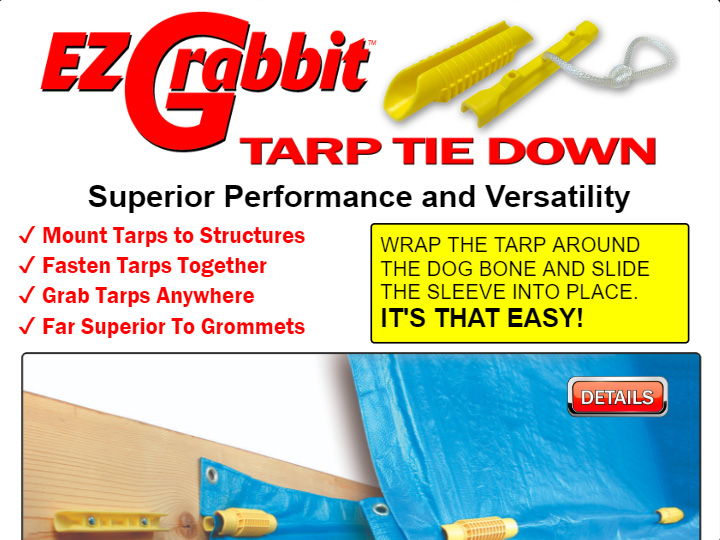
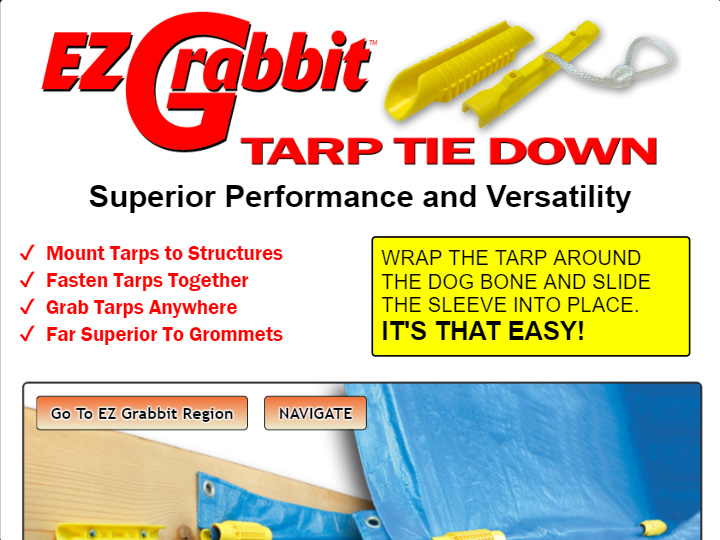
user content add/edit. Also a link to the new page 'components/components00_03/tmpl_01/ttd-vn-lg-not-complete-msg.html' to let users noew the LG page is not done yet. Need to do this for the other 'not done' pages as well.

diff --git a/components/components00_03/tmpl_01/viewTmpl_01.html b/components/components00_03/tmpl_01/viewTmpl_01.html
@@ -1,21 +1,4 @@
-<style>
-.textStyle1
-{
-font-family: 'Franklin Gothic Medium', 'Franklin Gothic', 'ITC Franklin Gothic', Arial, sans-serif;   
-color:red;
-text-align:center; 
-}
-
-.imageStyle1:hover
-{
-background-color:black; 
-border-radius:10px;
-box-shadow: 1px 1px 15px #CCEDF2, 1px -1px 15px #CCEDF2, -1px 1px 15px #CCEDF2, -1px -1px 15px #CCEDF2,
-            1px 1px 25px #EAE2BB, 1px -1px 25px #EAE2BB, -1px 1px 25px #EAE2BB, -1px -1px 25px #EAE2BB,
-            1px 1px 25px #EAE2BB, 1px -1px 25px #EAE2BB, -1px 1px 25px #EAE2BB, -1px -1px 25px #EAE2BB;
-}
-
-</style>
+<link rel="stylesheet" type="text/css" href="css/vn-templateStyle1.css">
 
 <div style="text-align:center;">    
    
@@ -76,25 +59,67 @@ box-shadow: 1px 1px 15px #CCEDF2, 1px -1px 15px #CCEDF2, -1px 1px 15px #CCEDF2, 
 
 <!-- Response Section 3 ************************************************************************************************************************************************-->
 
-    <div style="position:relative;">
+    <div style="position:relative;
+                {{$ctrl.rs3fontsize1}};
+               ">
         <img    src="components/components00_03/tmpl_01/ttd-vn-lg-presentation1-od-1175x975.jpg" 
                 alt="EZ Grabbit Tarp Tie Down Presentation" 
                 title="Long Grabbit Presentation" 
                 style=" width:100%;"> 
         
-        <div style="position:absolute; 
-                    {{$ctrl.rs3positiontop1}};       /* AR_50px_15px */
-                    /*top:15px; */
-                    left:5%; 
-                    z-index:2">
-             <a href="https://www.tarptiedown.com/index-old.html"> 
-                <img src="https://tarptiedown.com/resources/ttd-vn-button3-300x120.png"
-                     alt="button" 
-                     title="EZ Grabbit applications, specs, prices, videos, etc."
-                     class="imageStyle1"
-                     style="{{$ctrl.rs3width1}};     /* AR_150_70 */
-                            ">  
+        <div style="position:absolute;
+                    left:2%;
+                    {{$ctrl.rs3top1}};
+                    /*top:15px;*/
+                   ">
+            <a  href="https://www.tarptiedown.com/components/components00_03/tmpl_01/ttd-vn-lg-not-complete-msg.html"
+                class="btnStyle2"
+                style= "{{$ctrl.rs3padding1}};
+                        /*padding:5px 10px;*/
+                        text-decoration:none;
+                        font-weight:bold;
+                       "
+               > Go To Long Grabbit Region
+                
             </a>
+            <div class="btnStyle2" 
+                 ng-click="$ctrl.moreless2()"
+                 style="{{$ctrl.rs3padding1}};
+                        /*padding:5px 10px;*/
+                        {{$ctrl.rs3marginleft1}};
+                        /*margin-left:5px;*/
+                        font-weight:bold;
+                       ">
+                     {{$ctrl.morelessText2}}
+            </div>
+            <div class="textBoxStyle2 textStyle3"
+                 ng-show="$ctrl.display2">
+                 
+                <table  style= "width:100%;">
+                    <tr><td><u>SELECTION</u>&nbsp;&nbsp;&nbsp;&nbsp;&nbsp;&nbsp;</td>
+                        <td><u>DESTINATION</u>
+                            <span   class= "youAreHere2">
+                                &nbsp;&nbsp;you are here&nbsp;&nbsp;
+                            </span>
+                        </td>
+                    </tr>
+                    <tr class="topMenuNav">  <td class="tdStyle">TTD Intro          </td><td class="tdStyle">Tarp Tie Down Home & intro </td></tr>
+                    <tr class="topMenuNav">  <td class="tdStyle">Price/Buy          </td><td class="tdStyle">Product pricing and store  </td></tr>
+                    <tr class="topMenuNav">  <td class="tdStyle">Products           </td><td class="tdStyle">Tarp Tie Down products     </td></tr>
+                    <tr class="topMenuNav">  <td class="tdStyle">Reviews            </td><td class="tdStyle">Customer feedback          </td></tr>
+                    <tr class="hyperMenuNav"><td class="tdStyle">Button A  Thumb 1  </td><td class="tdStyle">Standard EZ Grabbit        </td></tr>
+                    <tr class="youAreHere">  <td class="tdStyle">Button A  Thumb 2  </td><td class="tdStyle">Long Grabbit               </td></tr>
+                    <tr class="hyperMenuNav"><td class="tdStyle">Button A  Thumb 3  </td><td class="tdStyle">Mini Grabbit               </td></tr>
+                    <tr class="hyperMenuNav"><td class="tdStyle">Button A  Thumb 4  </td><td class="tdStyle">EZ Adjust Rope Adjuster    </td></tr>
+                    <tr class="hyperMenuNav"><td class="tdStyle">Button B  Thumb 1  </td><td class="tdStyle">RockBuster Ground Stake    </td></tr>
+                    <tr class="hyperMenuNav"><td class="tdStyle">Button B  Thumb 2  </td><td class="tdStyle">Bag Grabbit Bag Handle     </td></tr>
+                    <tr class="hyperMenuNav"><td class="tdStyle">Button B  Thumb 3  </td><td class="tdStyle">The EZ Grabbit Keeper      </td></tr>
+                    <tr class="hyperMenuNav"><td class="tdStyle">Button B  Thumb 4  </td><td class="tdStyle">Carry/Duffle Bag           </td></tr>
+                    <tr class="hyperMenuNav"><td class="tdStyle">Button C  Thumb 1  </td><td class="tdStyle">Tent Poles                 </td></tr>
+                    <tr class="hyperMenuNav"><td class="tdStyle">Button C  Thumb 2  </td><td class="tdStyle">Classic EZ Grabbit         </td></tr>
+
+                </table>
+            </div>  
         </div>
     </div>
 

diff --git a/components/components00_03/tmpl_01/ttd-vn-lg-not-complete-msg.html b/components/components00_03/tmpl_01/ttd-vn-lg-not-complete-msg.html
@@ -1,0 +1,61 @@
+<!DOCTYPE html>
+<html lang="en">
+  <head>
+    <meta charset="UTF-8">
+    <meta name="viewport" content="user-scalable=no, initial-scale=1, maximum-scale=1, minimum-scale=1">
+    <meta name="generator" content="NetBeans IDE 8.0.2">
+    <meta name="dcterms.created" content="Sunday, 05 August 2018">
+    <meta name="description" content="Mount Tarps to Surfaces, Overlap and Connect Tarps Together, Fold and Secure Multiple Tarp Layers, Attach Anywhere to Tarp and Pull from any Angle. Build your Tarp City with Grabbit Tarp Tie Downs!">
+    <meta name="keywords" content="EZ Grabbit, grabbit, grabit, grab-it, tarp fastener, tarp clip, tarp klip, tarp clamp, tarp holder, tarp tie down, tie down, mounting tarp, connecting tarp, tarp shelter, camp tarp, tent camping, canopy">
+    <meta name="author" content="Brian H.Combes">
+    <title>Not Complete Info</title>
+    <link rel="SHORTCUT ICON" href="https://www.tarptiedown.com/resources/ttd-vn-icon-ttd-256x256.ico"> 
+    <link rel="stylesheet" type="text/css" href="https://www.tarptiedown.com/css/vn-templateStyle1.css">
+    
+</head>
+<body>
+    <div style="max-width:1170px; margin-left:auto; margin-right:auto;"><br>
+        <img src="https://www.tarptiedown.com/resources/images/TTD Logo - 1200x225 - 08-07-2017.png" alt="Tarp Tie Down Logo Here" style="width:100%;">
+    </div>
+    <div style="max-width:1170px; margin-left:auto; margin-right:auto; font-size:1.0em;">	
+        <p id="p1" style="text-align:center;">
+            Our Long Grabbit region is <span style="text-decoration:underline; font-weight:bold;">not</span> yet Complete 
+        </p>
+
+        <p style="text-align:center;">
+            Please click on the Long Grabbit button to go to our Long Grabbit store item. The product info there is helpful.<br><br>
+            <b>NOTE!</b><br>
+                <span style="font-family:Franklin Gothic Medium, Franklin Gothic, ITC Franklin Gothic, Arial, sans-serif; 
+                             color:blue;
+                            ">
+                    Full Long Grabbit product info is on the way.
+                </span>
+                <br><br> 
+        </p>	
+
+        <div id="d1"
+             style="text-align:center">
+                <a href="https://www.tarptiedown.com/TTD-Store/index.php?rt=product/category&path=1_15&session_id=6j7rvh11bja994asmiaq72uj26"
+                   class="btnStyle2"
+                   style="text-decoration:none;">
+                        Long Grabbit Tarp Tie Down Store Item
+                </a><br><br>
+                <a href="#" 
+                   onclick="window.close();" 
+                   class="btnStyle2"
+                   style="text-decoration:none;">
+                        Close This Window
+                </a>
+        </div> 
+    </div>
+	
+<script>
+   
+    var viewWidth = window.screen.availWidth;
+    
+    document.getElementById("p1").style.fontSize = ((0.00185)*(viewWidth)+0.33333) + "em";
+    document.getElementById("d1").style.fontSize = ((0.00062)*(viewWidth)+0.77778) + "em";
+
+</script>    
+</body>
+</html>

diff --git a/components/components00_03/tmpl_00/viewTmpl_00.html b/components/components00_03/tmpl_00/viewTmpl_00.html
@@ -1,39 +1,6 @@
 <link rel="stylesheet" type="text/css" href="css/vn-templateStyle1.css">
-<style>
-#divA
-{
-font-size:1em;
-}    
 
-.textStyle1
-{
-font-family:arial; 
-font-weight:bold; 
-color:black;
-}
-
-.textStyle2
-{
-font-family: 'Franklin Gothic Medium', 'Franklin Gothic', 'ITC Franklin Gothic', Arial, sans-serif;   
-color:red;
-}
-
-.textStyle3
-{
-font-family: 'Arial Rounded MT Bold', 'Helvetica Rounded', Arial, sans-serif;    
-}
-  
-.imageStyle1:hover
-{
-background-color:black; 
-border-radius:10px;
-box-shadow: 1px 1px 15px #CCEDF2, 1px -1px 15px #CCEDF2, -1px 1px 15px #CCEDF2, -1px -1px 15px #CCEDF2,
-            1px 1px 25px #EAE2BB, 1px -1px 25px #EAE2BB, -1px 1px 25px #EAE2BB, -1px -1px 25px #EAE2BB,
-            1px 1px 25px #EAE2BB, 1px -1px 25px #EAE2BB, -1px 1px 25px #EAE2BB, -1px -1px 25px #EAE2BB;
-}
-</style>
-
-<div id="divA">
+<div style="font-size:1em;">
 <!-- Response Section 1 ************************************************************************************************************************************************-->
     <div style="text-align:center;">
         <img src="http://www.tarptiedown.com/resources/ttd-vn-ezg-logo-w-device-1500x400.png" 
@@ -54,7 +21,7 @@ box-shadow: 1px 1px 15px #CCEDF2, 1px -1px 15px #CCEDF2, -1px 1px 15px #CCEDF2, 
         <tr>
             <td style="{{$ctrl.rs2width1}};">
             </td>
-            <td style="{{$ctrl.rs2width2}}; {{$ctrl.rs2fontsize2}};">
+            <td style="{{$ctrl.rs2width2}}; {{$ctrl.rs2fontsize2}}; color:red;">
                 <div class="textStyle2" style="">&#10004; &nbsp;Mount Tarps to Structures</div>
                 <div class="textStyle2" style="">&#10004; &nbsp;Fasten Tarps Together</div>
                 <div class="textStyle2" style="">&#10004; &nbsp;Grab Tarps Anywhere</div>
@@ -73,7 +40,7 @@ box-shadow: 1px 1px 15px #CCEDF2, 1px -1px 15px #CCEDF2, -1px 1px 15px #CCEDF2, 
 
 <!-- Response Section 3 ************************************************************************************************************************************************-->
     <div style="position:relative;
-                left:2.5%;
+                /*left:2.5%;*/
                 {{$ctrl.rs3fontsize1}};
                 ">
         <!--src="http://www.tarptiedown.com/resources/ttd-vn-ezg-tarp-arc-1400x1400.jpg" -->

diff --git a/components/components00_03/components00_03.js b/components/components00_03/components00_03.js
@@ -73,9 +73,24 @@ angular.module('viewNav')
             self01.rs2marginbottom1 = "margin-bottom:" + ((0.01605)*(viewWidth)+1.22222) + "px";    /* AR_20px_7px */
             
             // Response Section 3
-            self01.rs3positiontop1 = "top:" + ((0.04321)*(viewWidth)-0.55556) + "px"; // AR_50_15 
-            self01.rs3width1 = "width:" + ((0.09877)*(viewWidth)+34.44444) + "px"; // AR_150_70 
-          
+            self01.rs3fontsize1 = "font-size:" + ((0.00095)*(viewWidth)+0.38778) + "em";        /* AR_1.50_0.73 */
+            self01.rs3top1 = "top:" + ((0.01852)*(viewWidth)+8.33333) + "px";                   /* AR_30.00_15.00 */      
+            self01.rs3marginleft1= "margin-left:" + ((0.01852)*(viewWidth)-1.66667) + "px";     /* AR_20.00_5.00 */
+            self01.rs3padding1 = "padding:" + ((0.00617)*(viewWidth)+2.77778) + "px " + ((0.01235)*(viewWidth)+5.55556) + "px";    /* AR_10.00_5.00 */ /* AR_20.01_10.00 */
+            
+            // Sets mode of the "NAVIGATE" button
+            self01.display2 = false;
+            self01.morelessText2 = "NAVIGATE";
+            self01.moreless2 = function(){
+                if(self01.morelessText2 === "NAVIGATE"){
+                    self01.morelessText2 = "HIDE NAVIGATE";
+                    self01.display2 = true;
+                } 
+                else {
+                    self01.morelessText2 = "NAVIGATE";
+                    self01.display2 = false;
+                }
+            }; 
             
             compFactory.logView(01);
         }]

diff --git a/controller-client.js b/controller-client.js
@@ -289,7 +289,7 @@ angular.module('viewNav')
 //***********************************************************************************************************************************************************            
 // $state.go('some-view') loads the desired view as the default view upon load               
         var stateGo = (function(){    
-            $state.go('view00');
+            $state.go('view01');
 /*             
                 // Use this setTimeout if intializing with a template. If you initialize with a template only the first thumbnail group will show properly. If
                 // it's a template (view04 and up) then the proper thumbnail group won't show unless you call the stateHistory method and send it the proper parameters
